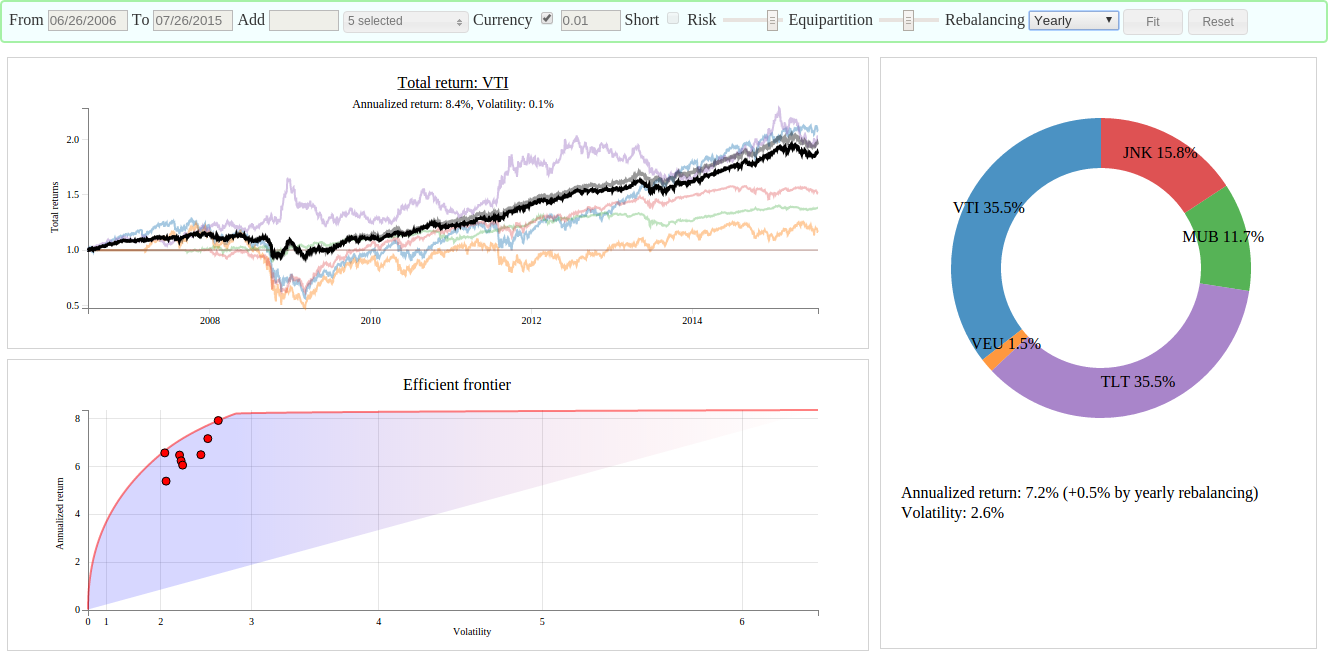
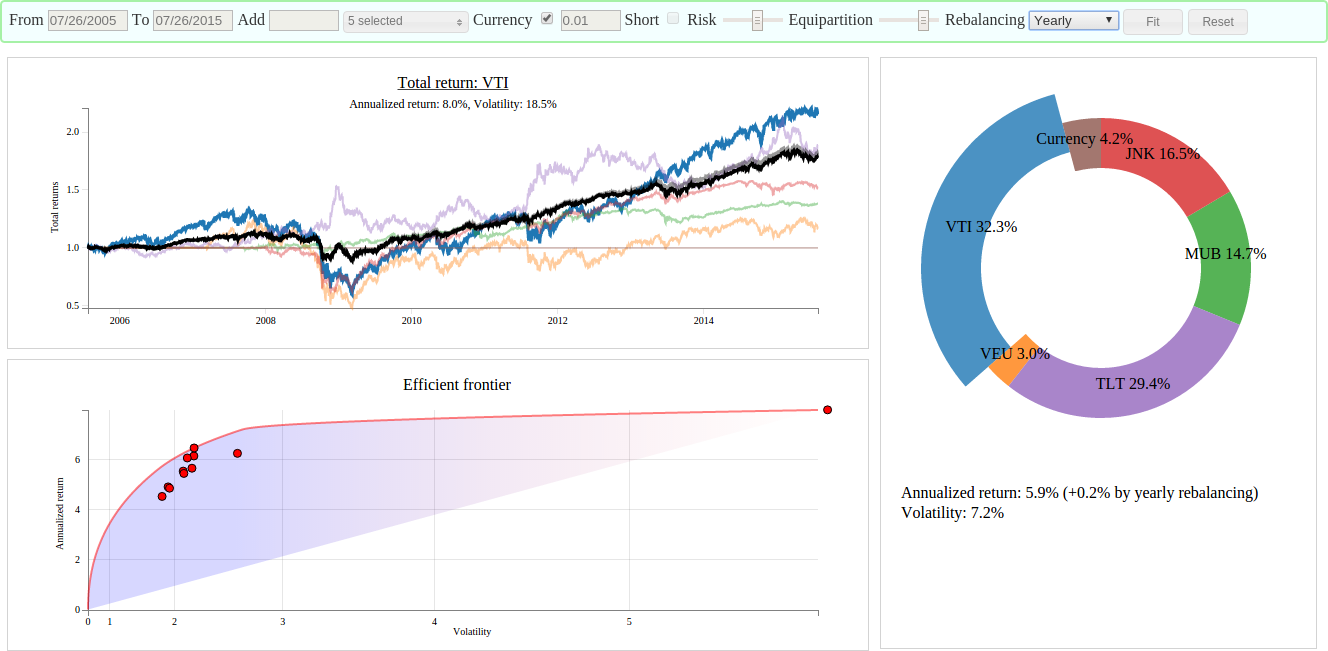
Update README.md and normalize volatility

diff --git a/static/js/visuals.js b/static/js/visuals.js
@@ -233,7 +233,7 @@
                         $("#symbols option[value=" + d.symbol + "]")).is(":checked") ? "visible" : "hidden";
                 });
 
-            svgtrend.select("#line-pos, #line-rebalancing")
+            svgtrend.selectAll("#line-pos, #line-rebalancing")
                 .transition().duration(400)
                 .attr("d", getLine(pos.series));
 
@@ -293,8 +293,8 @@
                 .attr("stroke-width", 3);
 
             var slices = svgpie.select("#pie-" + d.symbol + ", #pietext-" + d.symbol);
-            if ($.browser.chrome)
-                slices.transition().duration(400);
+            if ($.browser.chrome || animation)
+                slices = slices.transition().duration(400);
             slices.attr("transform", "scale(1.2)");
         }
 
@@ -304,8 +304,8 @@
                 .attr("opacity", 0.4)
                 .attr("stroke-width", 2);
             var slices = svgpie.select("#pie-" + d.symbol + ", #pietext-" + d.symbol);
-            if ($.browser.chrome)
-                slices.transition().duration(400);
+            if ($.browser.chrome || animation)
+                slices = slices.transition().duration(400);
             slices.attr("transform", "scale(1)");
 
 

diff --git a/static/js/init.js b/static/js/init.js
@@ -11,6 +11,7 @@ var xAxis, yAxis, fxAxis, fyAxis;
 var getLine, getFrontierLine;
 var pie;
 var arclong, arcshor;
+var animation = false;
 
 $(function() {
     d3.selectAll(".plot")

diff --git a/py/portfolio.py b/py/portfolio.py
@@ -73,7 +73,7 @@ def getPortfolio(df, unused, lbd, short=False, l2=0):
         allocation[category(p)].append({ "symbol": df.columns[i], "p": p })
 
     allocation["ret"] = (ret.dot(pos) ** ( 365 / T ) - 1) * 100
-    allocation["vol"] = np.sqrt(pos.dot(vol).dot(pos)) * ( 365 / T ) * 100
+    allocation["vol"] = np.sqrt(pos.dot(vol).dot(pos)) * np.sqrt( 365 / T ) * 100
     allocation["status"] = sol["status"]
     
     return jsonify(allocation)    
@@ -96,7 +96,7 @@ def getRebalance(df, freq, pos):
     return jsonify({ "min": perf["value"].min(),
                      "max": perf["value"].max(),
                      "ret": (perf["value"].iloc[-1] ** (365 / perf["value"].size) - 1) * 100,
-                     "vol": np.std(dailyret) * 365 / dailyret.size * 100,
+                     "vol": np.std(dailyret) * 1910.5,
                      "series": perf.T.to_json() })
 
 def getFrontier(df, short):
@@ -120,7 +120,7 @@ def getFrontier(df, short):
         if sol["status"] == "optimal":
             pos = np.array(sol['x']).ravel()[:k]
             frontier[i] = { "ret": (alpha ** ( 365 / T ) - 1) * 100, 
-                            "vol": np.sqrt(pos.dot(vol).dot(pos)) * ( 365 / T ) * 100 }
+                            "vol": np.sqrt(pos.dot(vol).dot(pos)) * np.sqrt( 365 / T ) * 100 }
 
     return jsonify(frontier)
 
@@ -155,7 +155,7 @@ def pullDataFromYahoo(symbol, startdate, enddate):
         dailyret = dailyret[1:] / dailyret[:-1]
         return jsonify({ "series": data.drop("index", 1).T.to_json(),
                             "ret": (data["value"].iloc[-1] ** ( 365 / data["value"].size ) - 1) * 100,
-                            "vol": np.std(dailyret) * 365 / dailyret.size * 100 })
+                            "vol": np.std(dailyret) * 1910.5 })
 
     except:
         return "invalid"

diff --git a/index.py b/index.py
@@ -57,4 +57,3 @@ def rebalancing():
 if __name__ == '__main__':
     solvers.options['show_progress'] = False
     app.run(debug=True)
-    #app.run(host='0.0.0.0')

diff --git a/README.md b/README.md
@@ -2,7 +2,7 @@
  * Construct portfolios by constrained quadratic optimization --- minizing volatility, maxizing returns, and reducing over-fitting by encouraging to equally invest in all positions.
  * Price data is sourced from Yahoo finance.
 
-![alt tag](https://cloud.githubusercontent.com/assets/6327275/8896824/9c7bf642-33bc-11e5-9e01-02880054d53d.png)
+![alt tag](https://cloud.githubusercontent.com/assets/6327275/8897664/0f2008da-33ce-11e5-8ee9-efa2cc0f9ac5.png)
 
 1. Frontend tested in Chrome 44 and Firefox 39
  * Some D3.js animation are turned off in Firefox.
